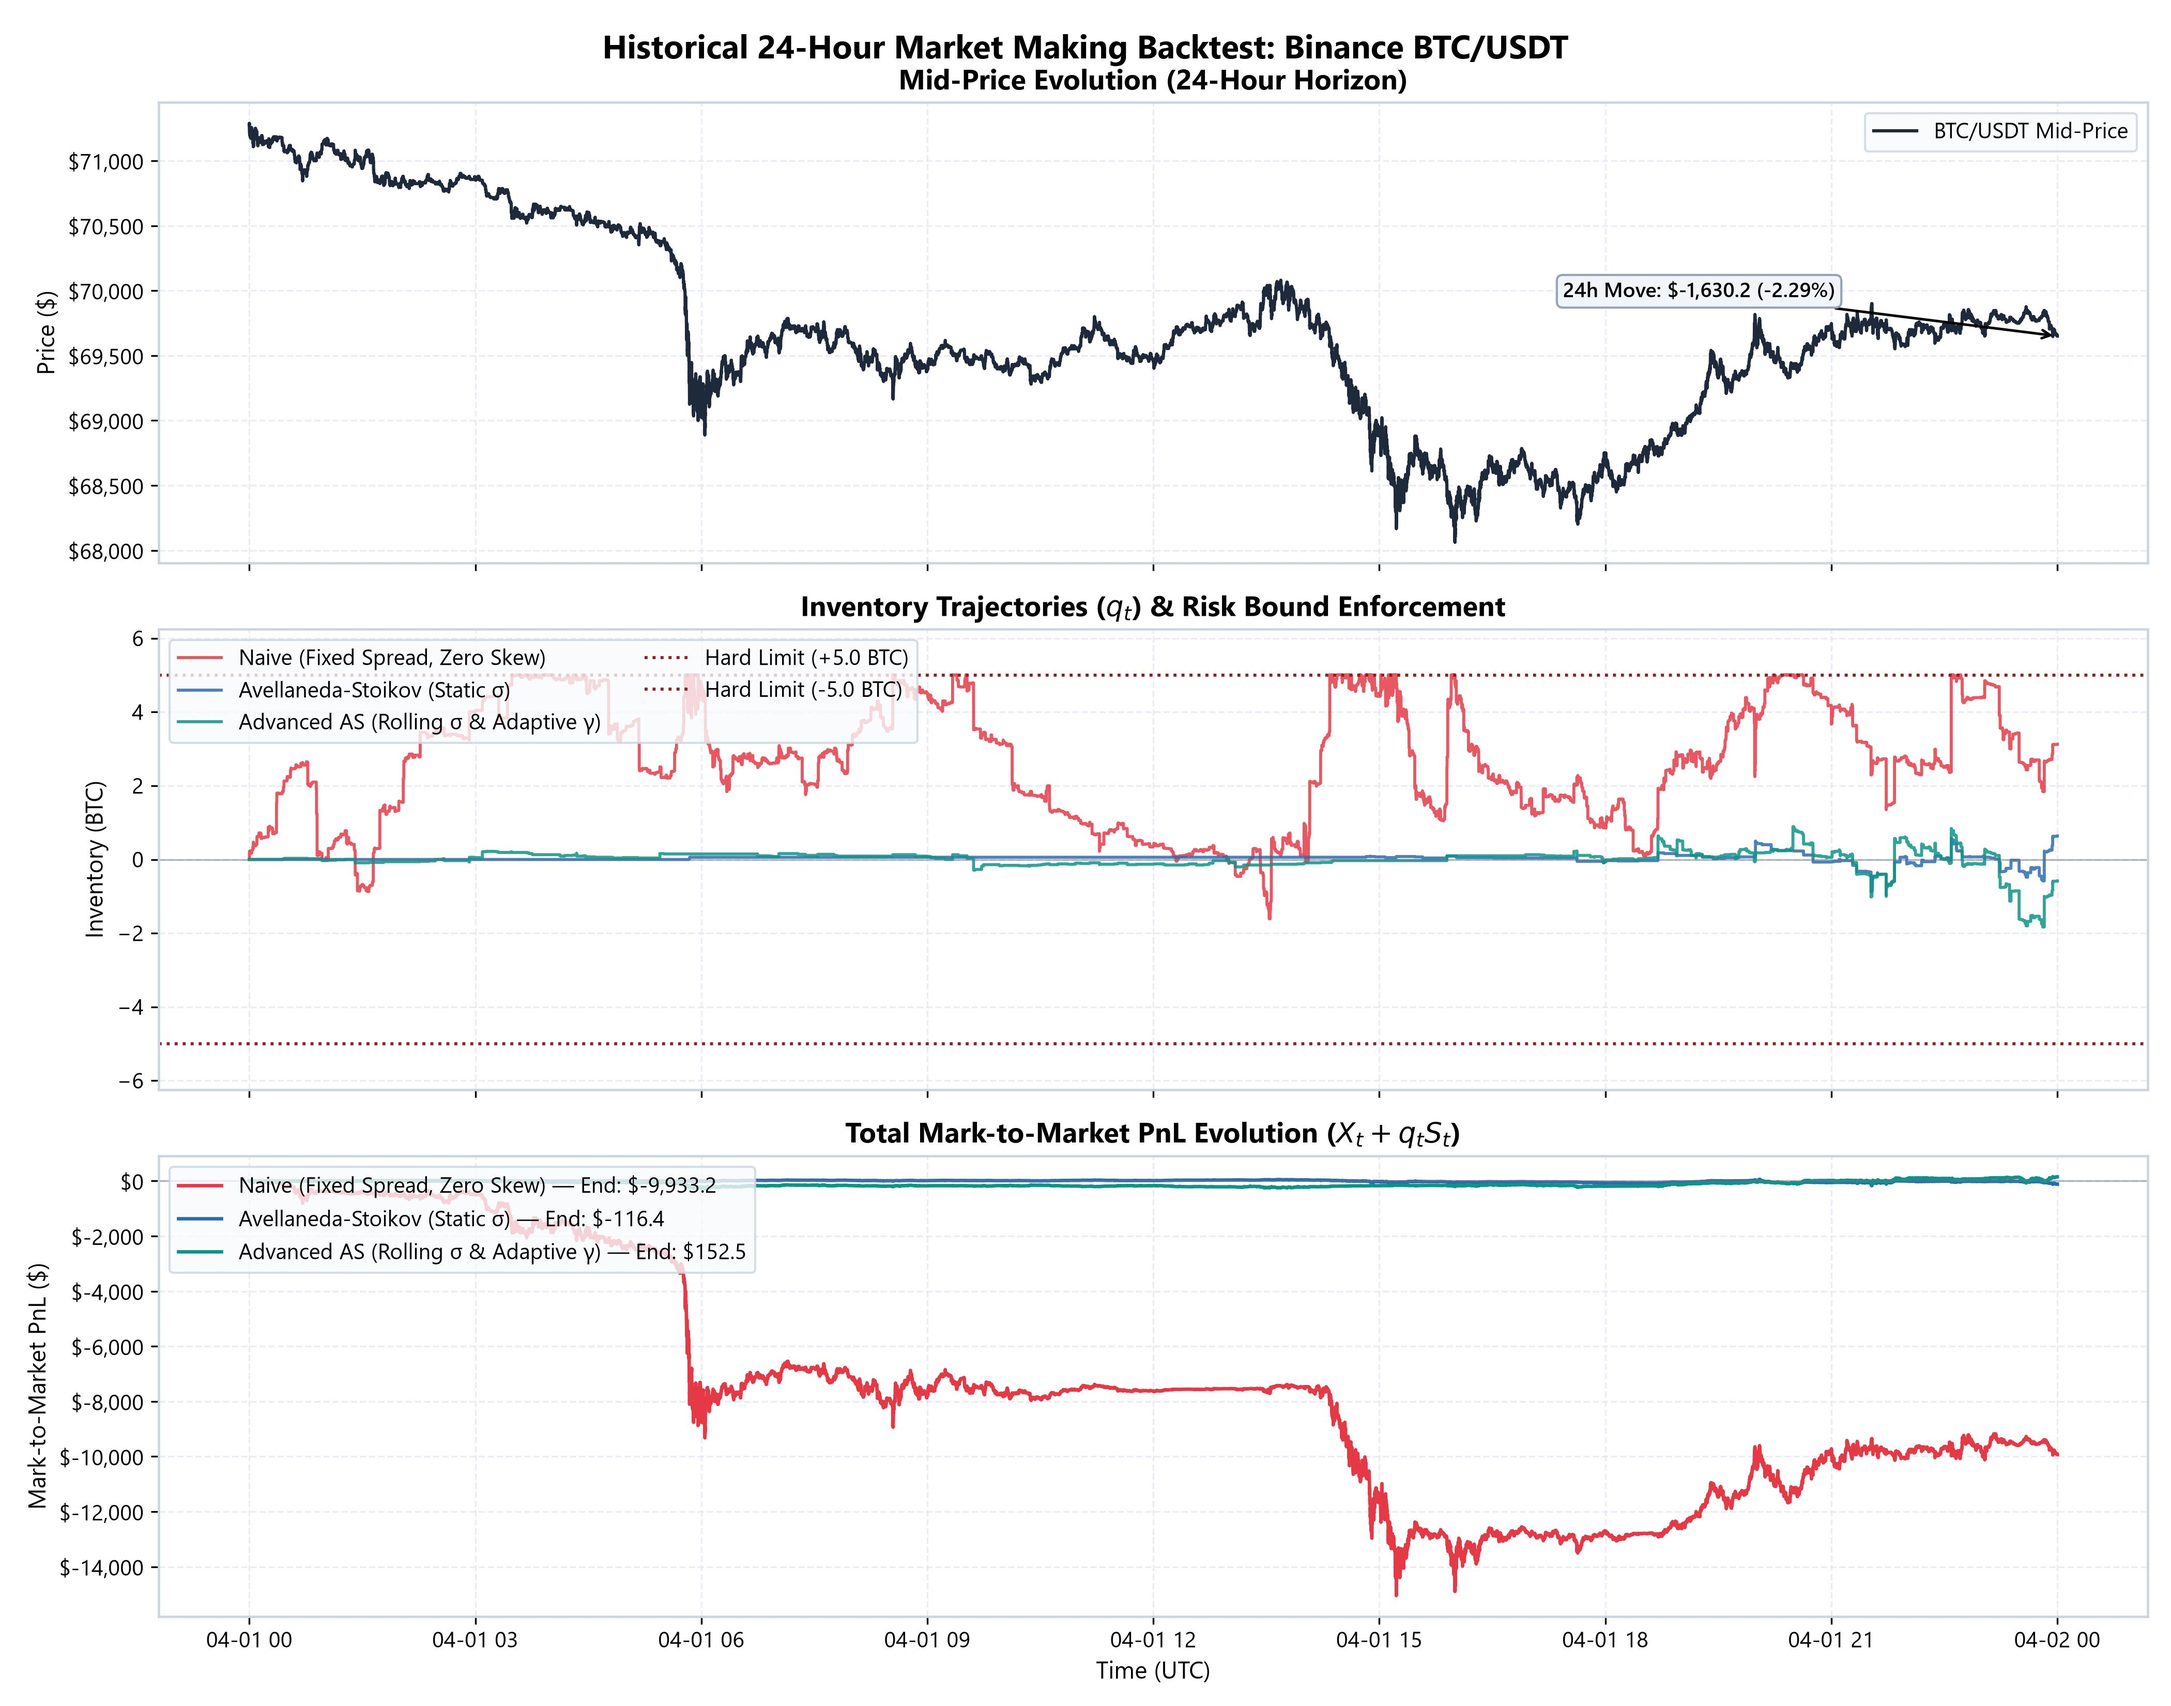
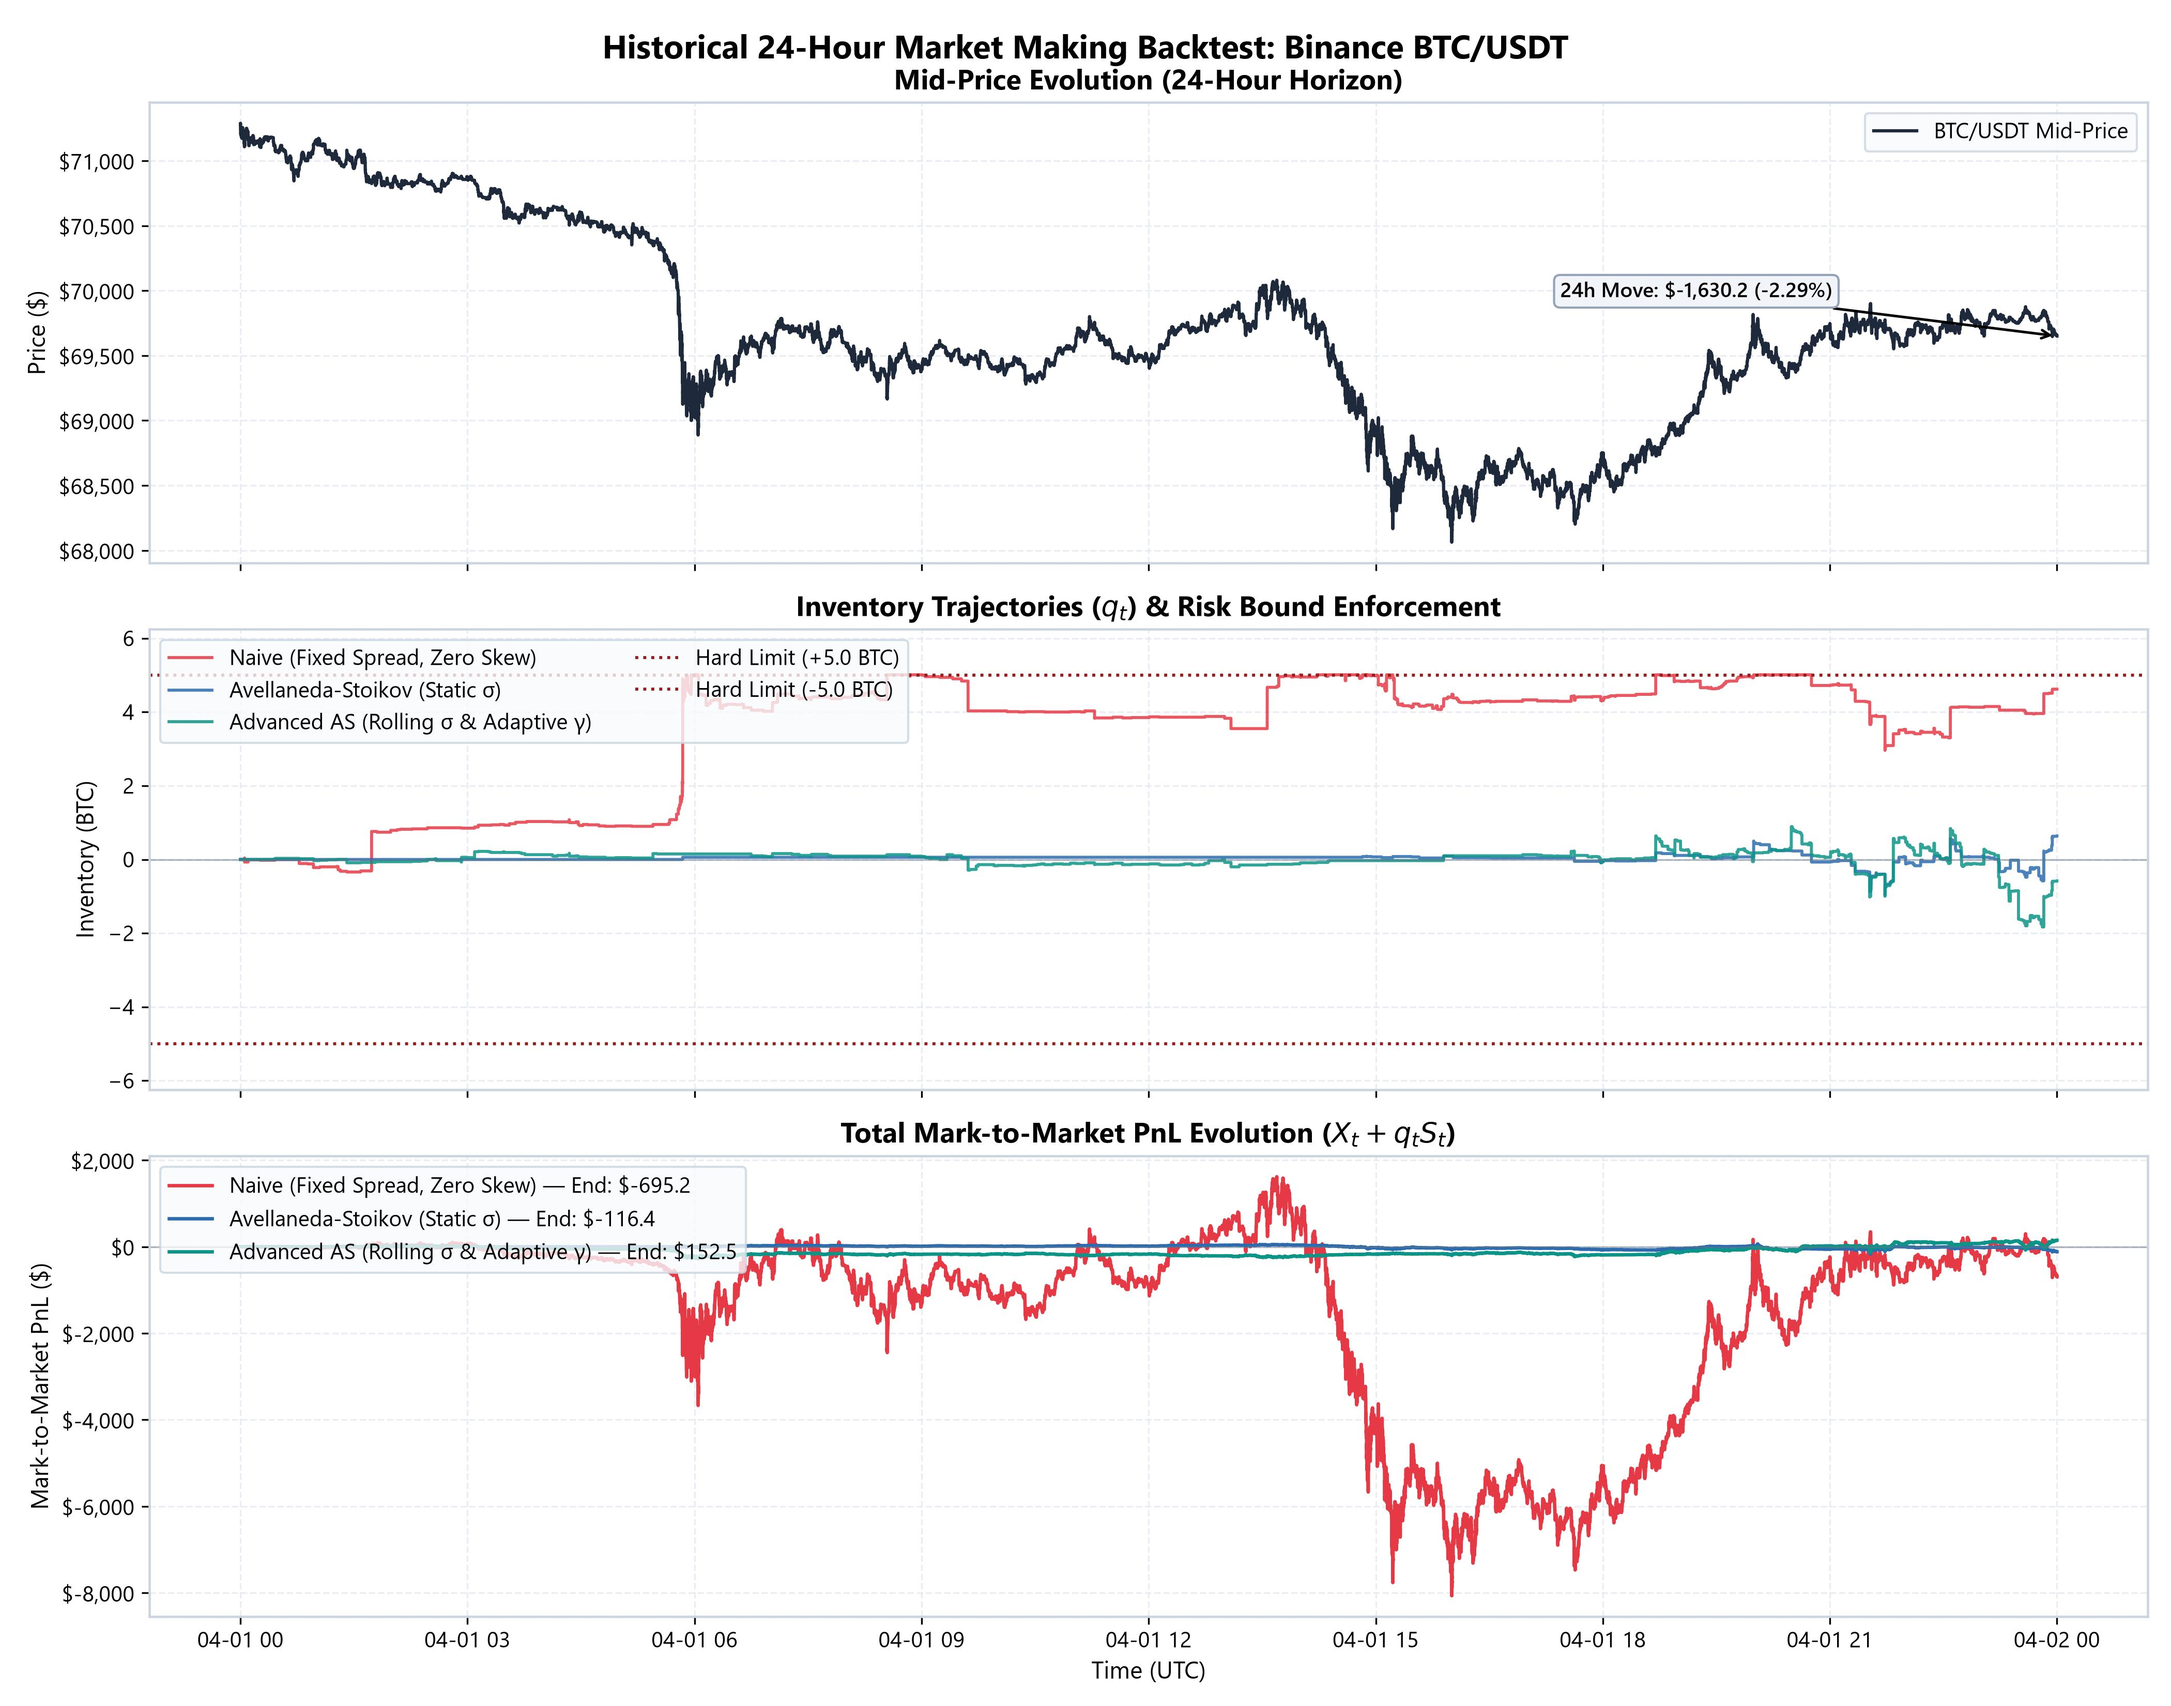
fixed spread for naive

diff --git a/main.py b/main.py
@@ -112,7 +112,7 @@ def main():
     
     q_max = 5.0             # Max absolute inventory (BTC)
     lot_size = 0.01         # Lot size per execution (BTC)
-    fixed_spread = 6.0      # Fixed spread for Naive ($6.00 ~ 0.85 bps)
+    fixed_spread = 18.0      # Fixed spread for Naive ($6.00 ~ 0.85 bps)
     gamma_static = 3e-5     # Static AS risk aversion
     gamma_0 = 3e-5          # Advanced AS base risk aversion
     eta = 4.0               # Advanced AS non-linear penalty multiplier

diff --git a/src/strategy.py b/src/strategy.py
@@ -46,7 +46,7 @@ class NaiveStrategy(BaseStrategy):
 
     def __init__(
         self, 
-        fixed_spread: float = 6.0, 
+        fixed_spread: float = 2.0, 
         q_max: float = 5.0, 
         lot_size: float = 0.01
     ):
